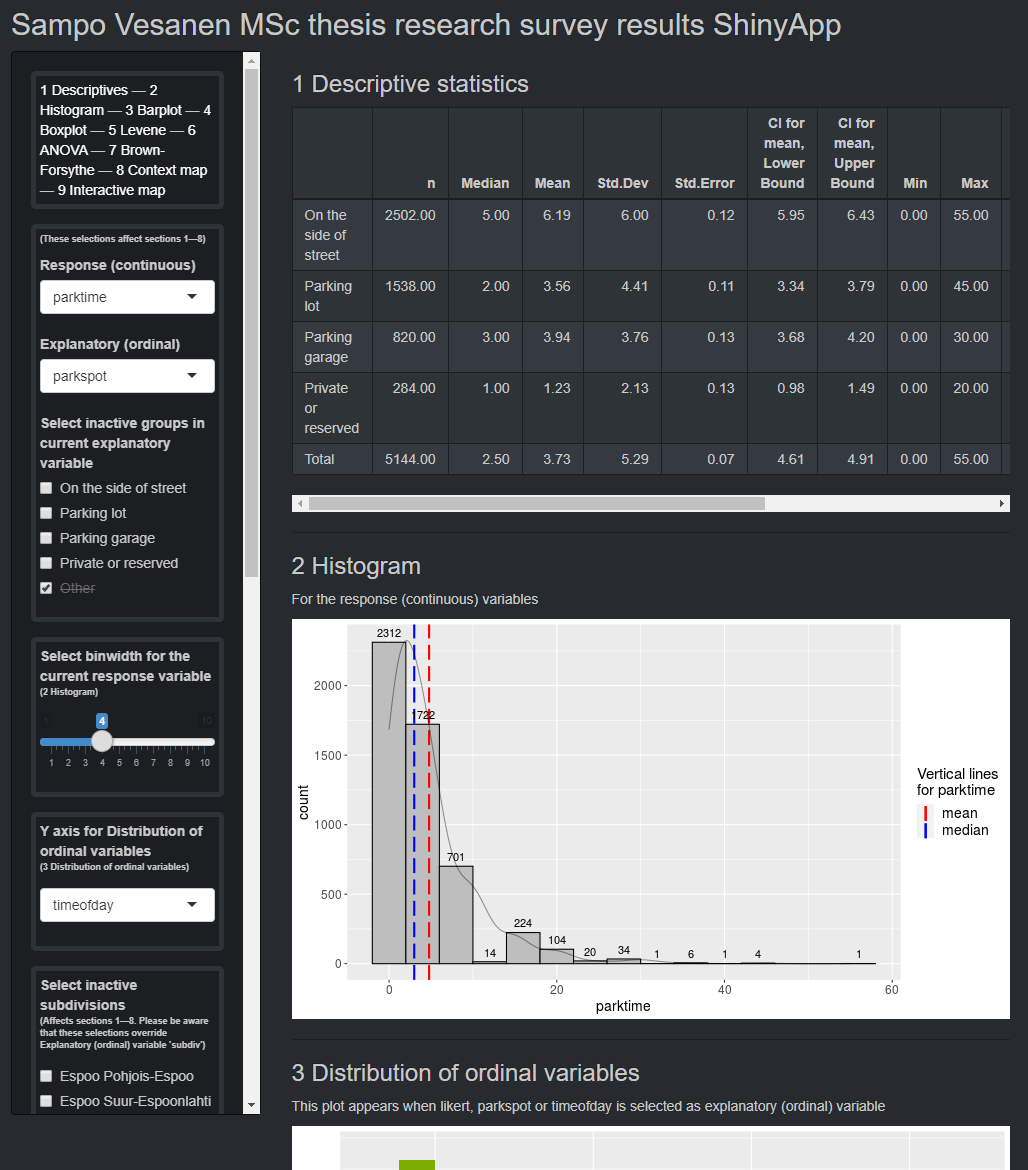
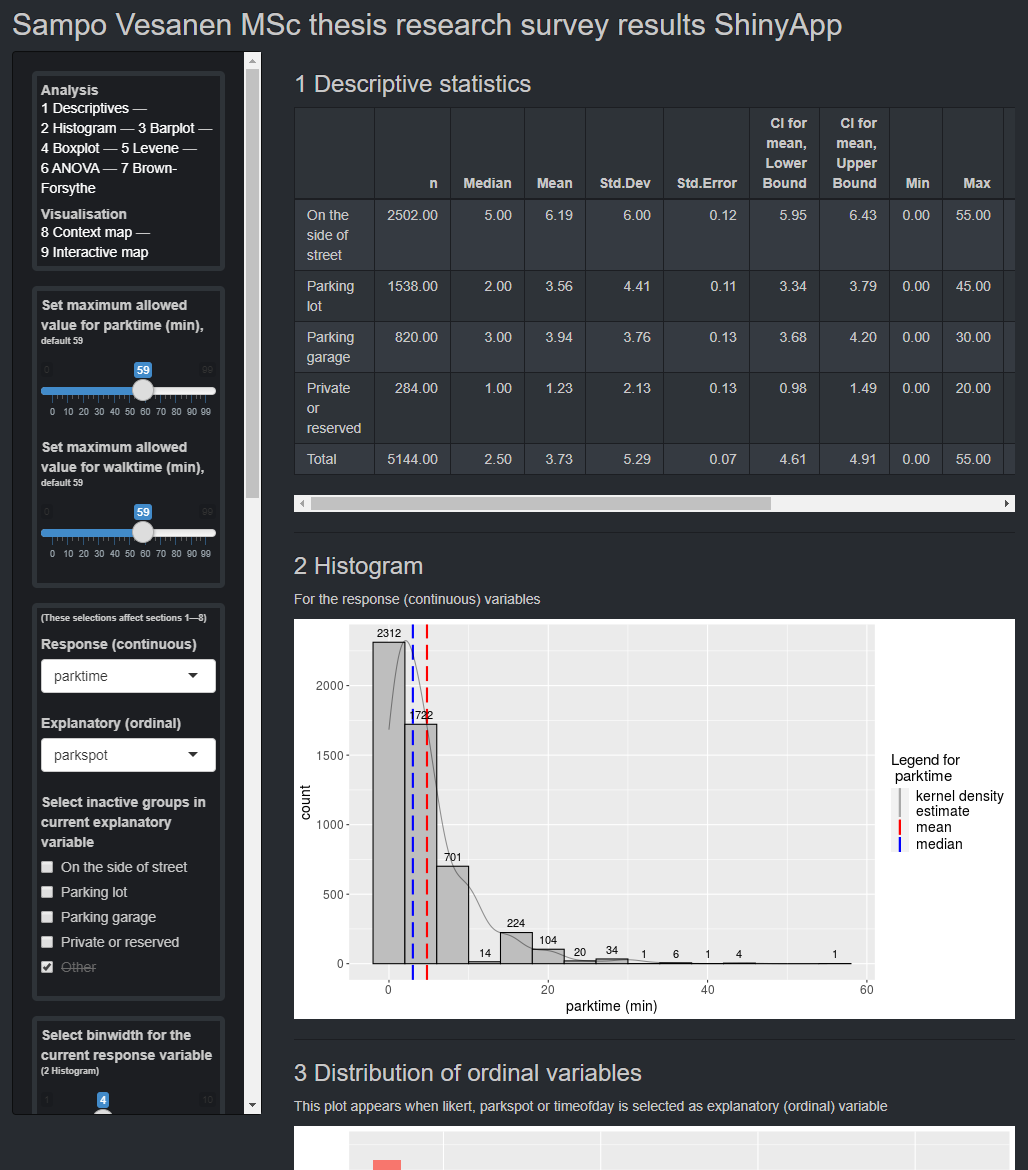
version 1 of records shinyapp features

diff --git a/content/c3_data.tex b/content/c3_data.tex
@@ -430,8 +430,30 @@ Once the data processing in Python was completed, \textit{records} and \textit{v
     \label{fig:shinyapps}%
 \end{figure}
 
-\textcolor{red}{pitäiskö lisää slider recordsin sallitulle yläkatolle?! pitäis, musta}
 In the Shiny application for \textit{records} users can view the survey responses from many different angles. Users are given control which variables are active at any moment (\hyperref[fig:shinyapps]{figure~\ref{fig:shinyapps}a}). Users control the variables through a side panel to the left of the view. The variable currently viewed are selected through two dropdown menus, Response (continuous) and Explanatory (ordinal). Continuous variables are \code{parktime} and \code{walktime} with their scale from 0--99. Ordinal variables include \code{likert}, \code{parkspot}, \code{timeofday}, \code{ua\_forest}, \code{ykr\_zone}, and \code{subdiv} with the values that can't be ordered in a sequence in the same way as continuous variables. One variable from each variable group can be selected at the same time. Any and all groups of values in the ordinal variables can be deactivated to better understand the significance of each value. In addition to the selection of the continuous and ordinal variable, users can deactivate \textit{records} data rows based on their spatial location in municipality subdivisions assigned in \hyperref[sec:processdata]{\fullref{sec:processdata}}.
+
+\begin{hyphenrules}{nohyphenation}
+    \begin{table}[H]
+        \centering
+        \caption[Records Shiny application features]{Records Shiny application features} 
+        \label{tab:records_shiny_features}
+        \scalebox{0.9}
+        {\def\arraystretch{1.3}
+        \setlength\tabcolsep{1.2ex}
+        \begin{tabular}{ @{} >{\raggedright\arraybackslash}p{3.5cm} >{\raggedright\arraybackslash}p{2cm} >{\raggedright\arraybackslash}p{2.5cm} >{\raggedright\arraybackslash}p{4.5cm} >{\raggedleft\arraybackslash}p{4cm} @{} }
+            \toprule
+            Feature & Type & Scope & Options & Special \\
+            \midrule
+            Select maximum permitted values for parktime and walktime & Analysis & Sections 1--7 & Slider input: maximum permitted parktime \linebreak Slider input: maximum permitted walktime &  \\
+            Select active analysis variables & Analysis & Sections 1--7 & Drop-down input: select response variable \linebreak Drop-down input: select explanatory variable &  \\
+            Select histogram binwidth & Analysis & 2 Histogram & Slider input: histogram binwidth for the current response variable &  \\
+            Select y axis for distribution of explanatory variables plot & Analysis & 3 Distribution of ordinal variables & Drop-down input: select response variable & This feature is only available when active response variable is likert, timeofday, or parkspot \\
+            Select inactive municipality subdivisions & Analysis & Sections 1--8 & Check box group input: Select inactive subdivisions & Selections here override selections in "select active analysis variables" \\
+            Interactive map settings & Visualisation & 8 Interactive map & Checkbox group input: Select inactive cities \linebreak Drop-down input: select active Jenks breaks variable \linebreak Slider input: Select amount of Jenks breaks classes &  \\
+            \bottomrule
+        \end{tabular}}
+    \end{table} 
+\end{hyphenrules}
 
 When the user has selected a continuous and an ordinal variable to compare, they are presented a thorough set of descriptive statistics for currently active data rows with n, median, mean, standard deviation, standard error, confidence interval for lower and upper bound, minimum and maximum, 25 \% and 75 \% quantiles, skewness, and kurtosis. For the continuous variables, a histogram is available to visualise the distribution of walktime and parktime. Distribution of ordinal variables likert, parkspot and timeofday can be compared against other ordinal variables in a barplot. To study quartiles, a boxplot is available. Importantly, users can test their selection of variables using the test of homogeneity of variables (Levene's test), analysis of variance (ANOVA), and the Brown-Forsythe test. To provide a visual context, a map of the research area is included. The purpose of this map is to visualise which subdivisions the user has currently active and which are deactivated. Lastly, an interactive map of the research area is provided. This map, divided in postal areas, is unaffected with the options presented earlier in this paragraph. Instead, this interactive map is controlled by the options of its own, allowing the user to view mean, median and percentage data about each postal code area in Helsinki Capital Region. In addition, the map offers six different options for viewing the research area through Jenks breaks. \textcolor{red}{isosti kesken jenksbreaks-selittely}
 
